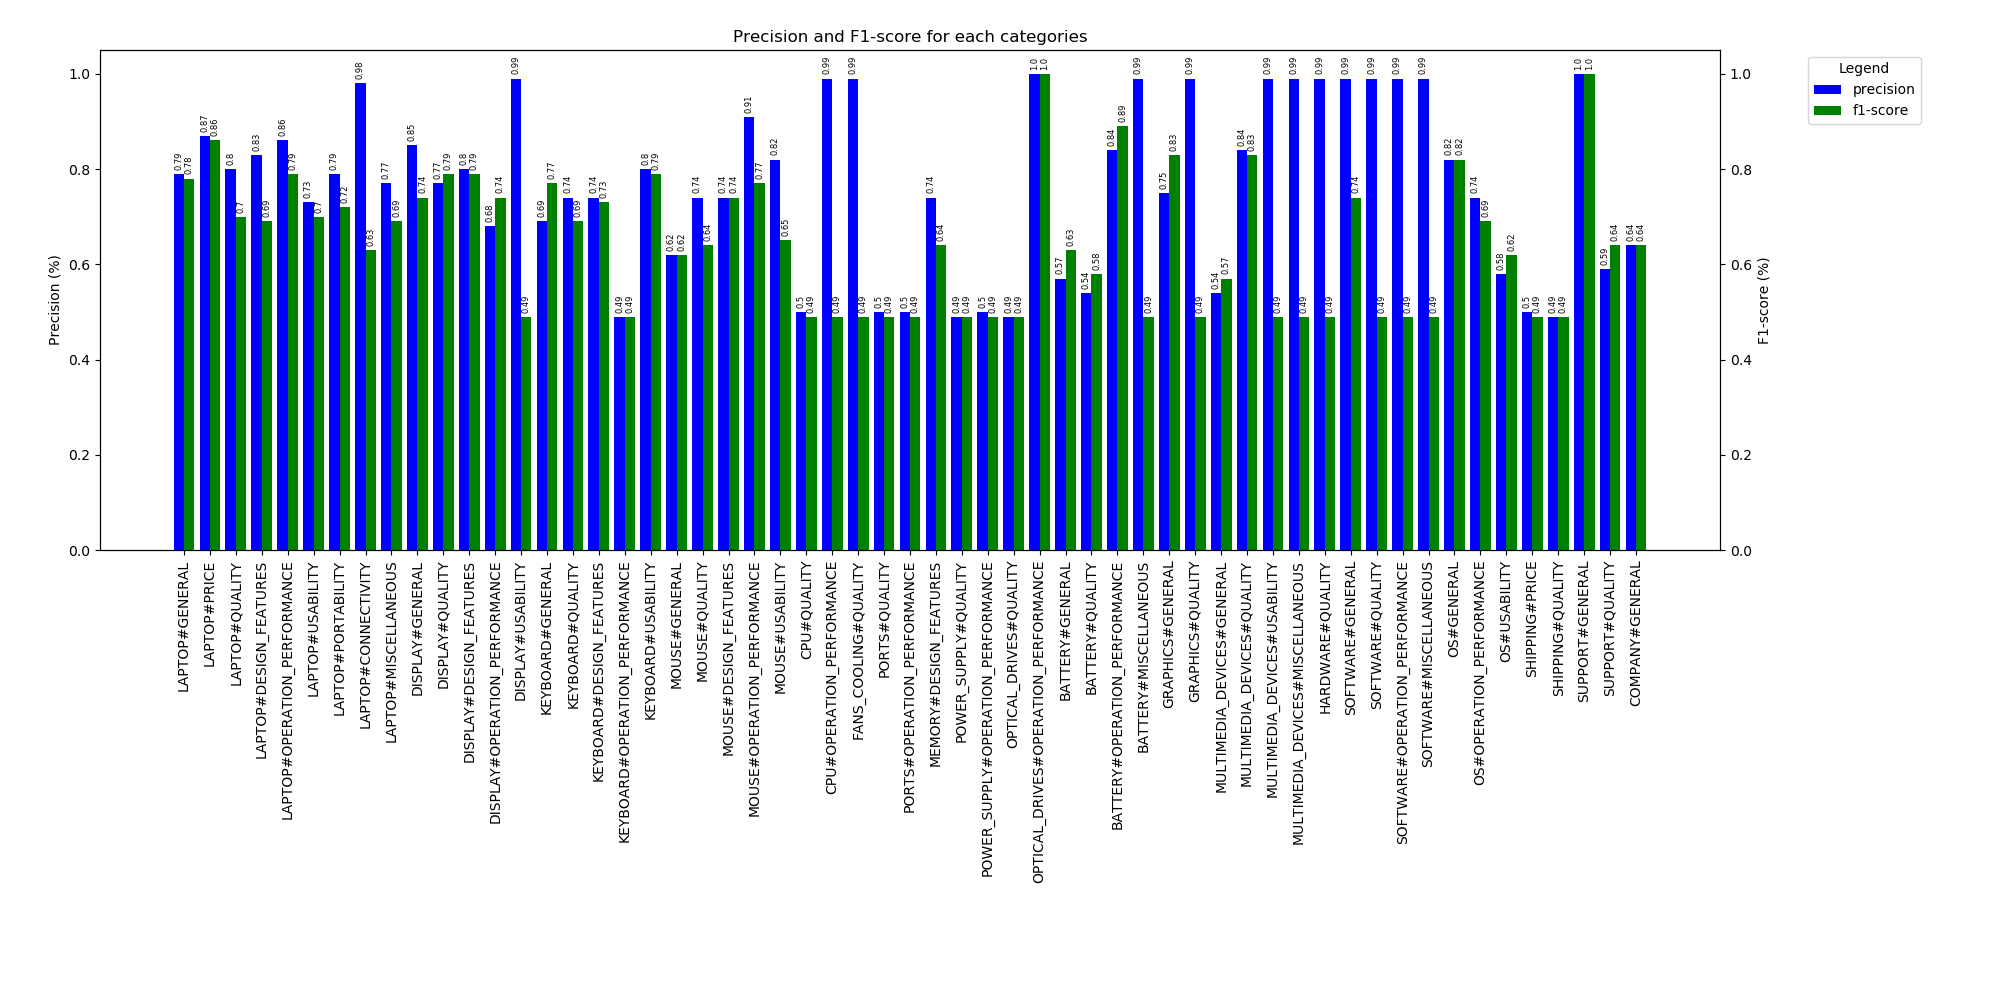
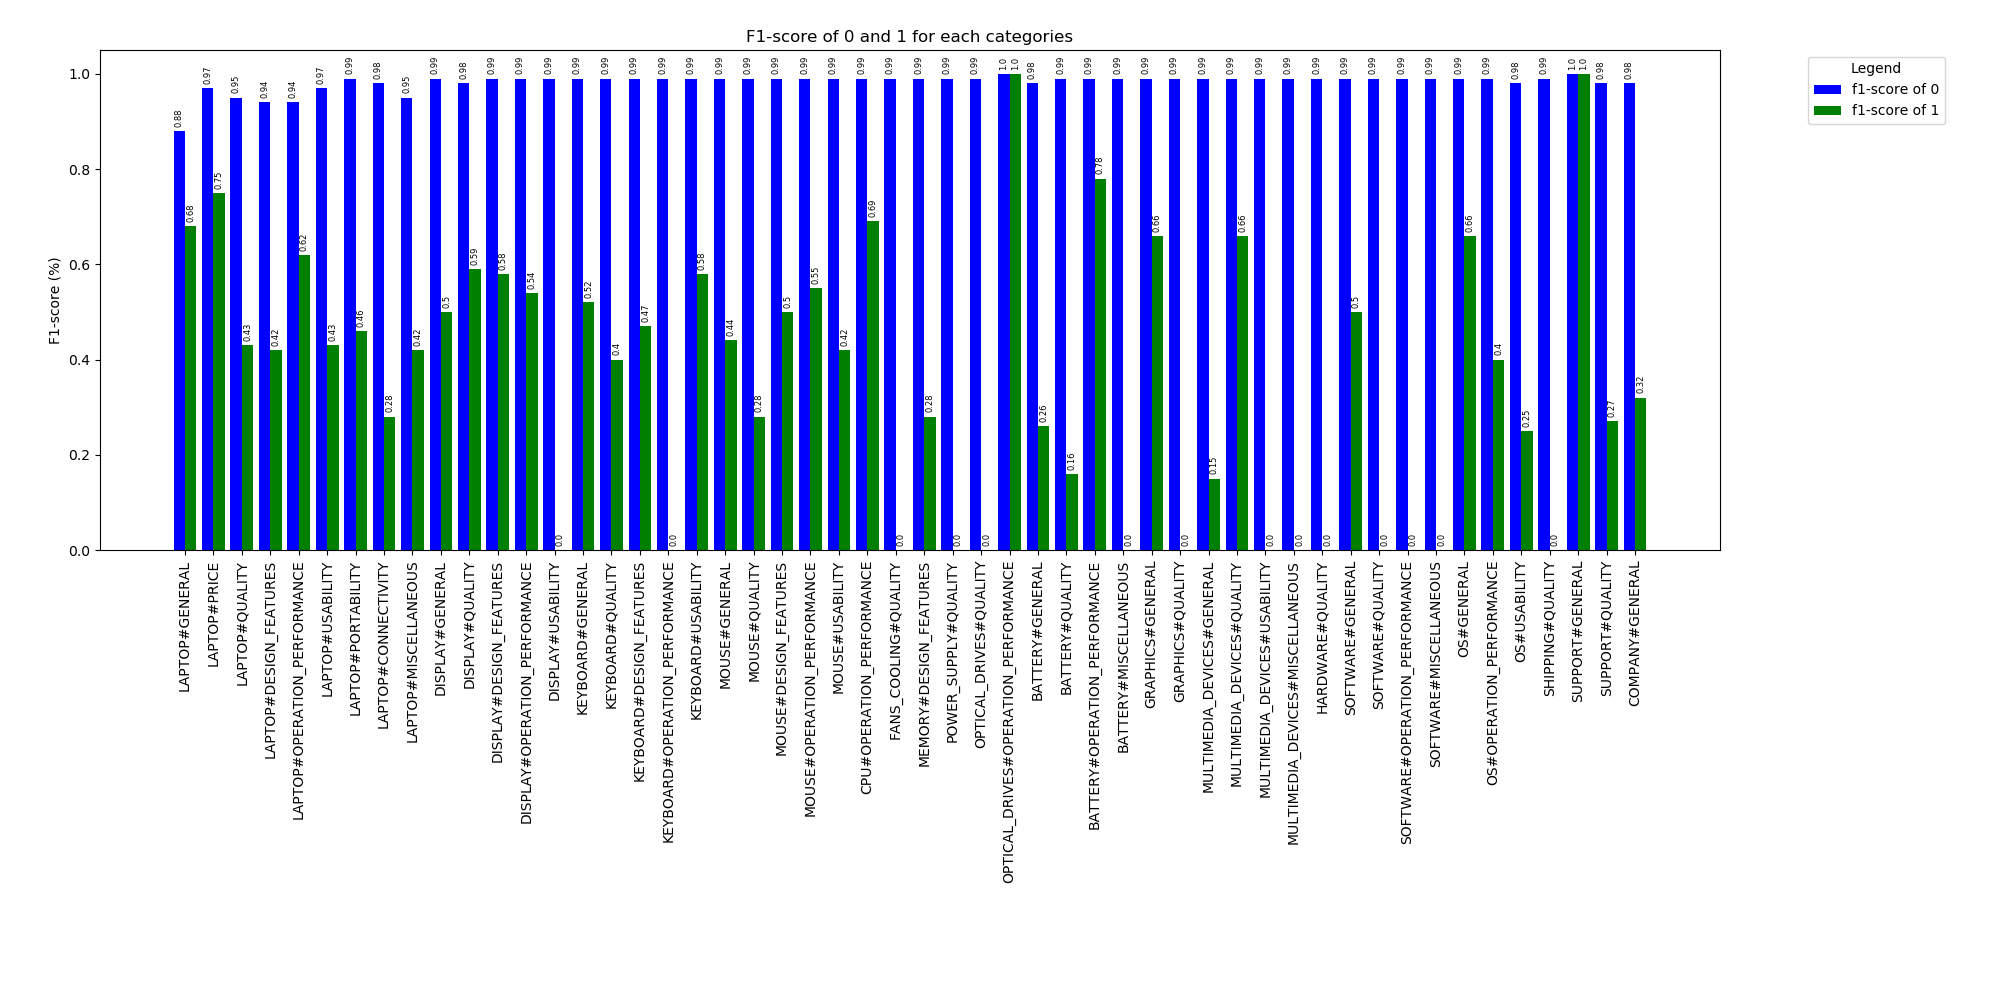
Change graphics

Changed region(s): [[0.062, 0.031, 0.837, 0.868], [0.93, 0.062, 0.961, 0.093], [0.0, 0.248, 0.031, 0.279]]

diff --git a/PlotResult.py b/PlotResult.py
@@ -64,23 +64,21 @@ def plotTrueData(names, scores, support):
 
     plt.show()
 
-def plotData(names, scores, f1score):
+def plotDataF1Score(names,FalseScore, TrueScores):
 
-    scoresCut = [truncate(scr,2) for scr in scores]
-    f1Cut = [truncate(scr,2) for scr in f1score]
+    scoresFalseCut = [truncate(scr,2) for scr in FalseScore]
+    scoresTrueCut = [truncate(scr,2) for scr in TrueScores]
 
     x = np.arange(len(names))  # the label locations
     width = 0.4  # the width of the bars
 
     fig, ax = plt.subplots(figsize=(20, 10))
-    rects1 = ax.bar(x - width/2, scoresCut, width, color='b', label='precision')
-    ax2 = ax.twinx()
-    rects2 = ax2.bar(x + width/2, f1Cut, width, color='g', label='f1-score')
+    rects1 = ax.bar(x - width/2, scoresFalseCut, width, color='b', label='f1-score of 0')
+    rects2 = ax.bar(x + width/2, scoresTrueCut, width, color='g', label='f1-score of 1')
 
     # Add some text for labels, title and custom x-axis tick labels, etc.
-    ax.set_ylabel('Precision (%)')
-    ax2.set_ylabel('F1-score (%)')
-    ax.set_title('Precision and F1-score for each categories')
+    ax.set_ylabel('F1-score (%)')
+    ax.set_title('F1-score of 0 and 1 for each categories')
     ax.set_xticks(x)
     ax.set_xticklabels(names)
     
@@ -91,7 +89,7 @@ def plotData(names, scores, f1score):
         tick.set_rotation(90)
 
     autolabel(ax,rects1,6)
-    autolabel(ax2,rects2,6)
+    autolabel(ax,rects2,6)
 
     fig.tight_layout()
 
@@ -103,14 +101,15 @@ def plotData(names, scores, f1score):
 
 
 def plotDataEntity(predictEntity,realEntity):
-    print("hello ###############################")
+
     precision=[]
     recall=[]
     f1score=[]
     for entity in predictEntity.keys():
         reportDic = classification_report(realEntity[entity],predictEntity[entity],zero_division=1, output_dict=True)
-        print("For :", entity)
+        print("\nPour l'entité :", entity)
         print(classification_report(realEntity[entity],predictEntity[entity],zero_division=1))
+        print()
         print(confusion_matrix(realEntity[entity],predictEntity[entity]))
         precision.append(reportDic["macro avg"]["precision"])
         recall.append(reportDic["macro avg"]["recall"])

diff --git a/Classify.py b/Classify.py
@@ -76,10 +76,10 @@ def predictTestData(Classifieur,vectorizer,ClassifyCategory,dfTest):
     y_test = dfTest.drop(labels = ['text'], axis=1)
 
     names=[]
-    scores = []
+    f1scoresFalse = []
+    f1scoresTrue = []
     scoresTrue = []
-    support = []
-    f1score = []
+    supportTrue = []
     predictEntity = dict()
     realEntity = dict()
     for category in ClassifyCategory:
@@ -104,10 +104,10 @@ def predictTestData(Classifieur,vectorizer,ClassifyCategory,dfTest):
             continue
         
         report = classification_report(y_test[category],prediction,zero_division=1, output_dict=True)
-        support.append(report['1']['support'])
+        supportTrue.append(report['1']['support'])
         scoresTrue.append(report['1']['precision'])
-        scores.append(report['macro avg']['precision'])
-        f1score.append(report['macro avg']['f1-score'])
+        f1scoresFalse.append(report['0']['f1-score'])
+        f1scoresTrue.append(report['1']['f1-score'])
         #scores.append(np.mean(precision_score(y_test[category],prediction,average=None)))
         names.append(category)
 
@@ -116,8 +116,8 @@ def predictTestData(Classifieur,vectorizer,ClassifyCategory,dfTest):
     predictionPol = Classifieur['polarity'].predict(x_test)
     print(classification_report(y_test['polarity'],predictionPol,zero_division=1))
 
-    plotTrueData(names,scoresTrue,support)
-    plotData(names, scores, f1score)
+    plotTrueData(names,scoresTrue,supportTrue)
+    plotDataF1Score(names, f1scoresFalse, f1scoresTrue)
     plotDataEntity(predictEntity,realEntity)
 
 

diff --git a/Program.py b/Program.py
@@ -46,9 +46,6 @@ def main():
     Classifieur,vectorizer,ClassifyCategory = CreateClassifieur(df,ALL_CATEGORIES)
     predictTestData(Classifieur,vectorizer,ClassifyCategory,dfTest)
 
-
-    print("\n\n#################################################################################################\n\n")
-
     '''
     if(path.exists(FILE_RANDOM_STATE)):
         f = open(FILE_RANDOM_STATE, "r")
